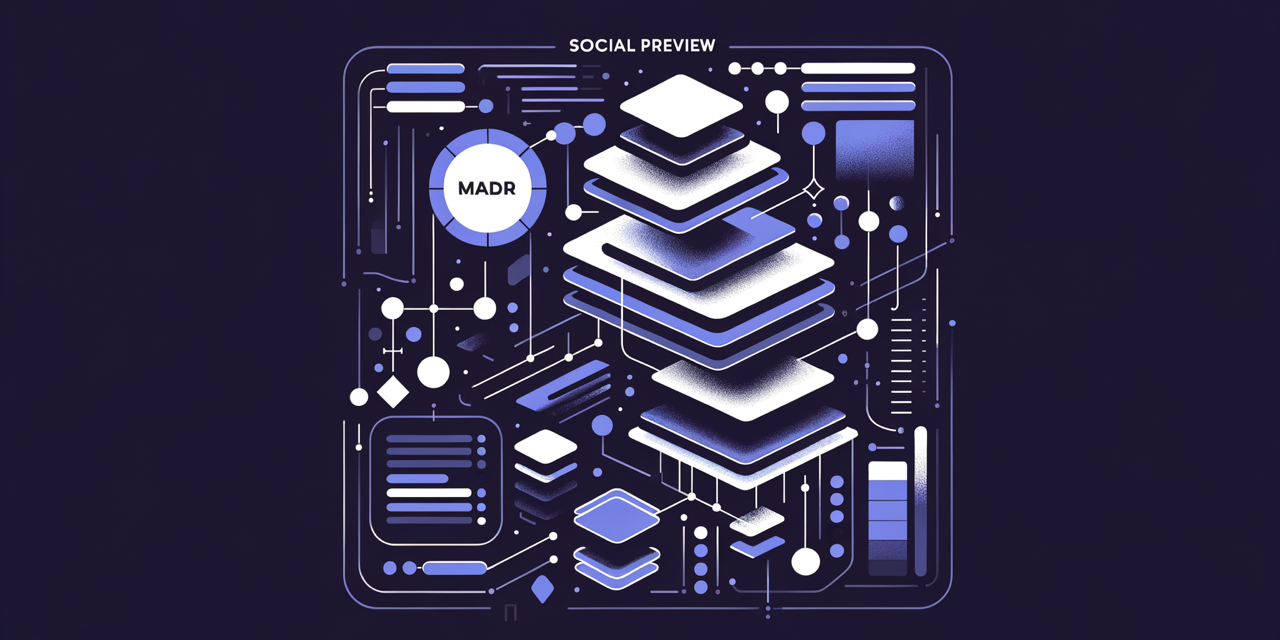
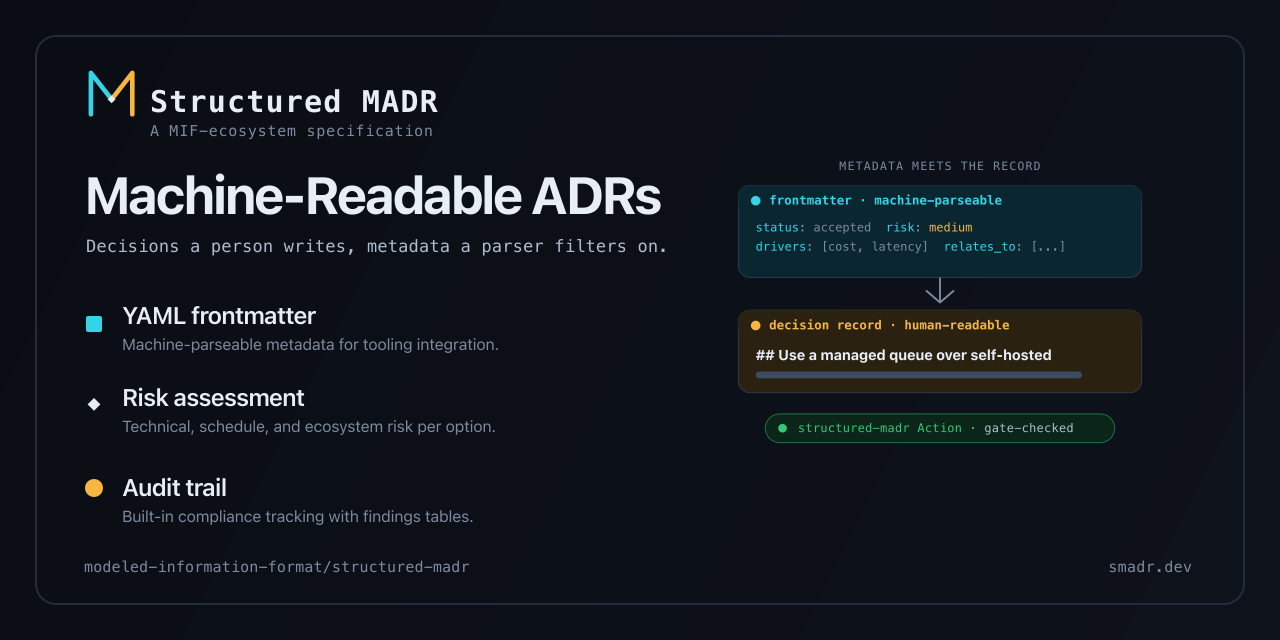
Fix broken deploy, add homepage hero, wire in brand CSS, complete ecosystem sidebar (#94)
* Add an on-brand homepage hero

This was the one project site with a plain heading page, no hero at all. Converts the homepage to Starlight's splash template with a hero depicting the frontmatter-meets-record motif (YAML metadata block, decision record block, validation gate badge), matching the visual language of the org's other sites. Content below the hero is unchanged.

* Replace the DALL-E social preview with a hand-authored on-brand one

The existing .github/social-preview.png was generated by the /github-social plugin (DALL-E-3, 'auto colors', no brand tokens) per .claude/github-social.local.md, and was never even embedded in the README. Replaces it with a hand-authored SVG/PNG pair matching the pattern MIF just established for itself (same identity lockup, pillar layout, and motif composition), and removes the stale generator config so it can't silently regenerate the off-brand version again.

* Embed the social-preview hero in the README

* Complete the MIF ecosystem sidebar with 5 missing siblings

Only carried MIF home, Ecosystem docs, and Specification. Adds Research harness, Ontology corpus, mif-docs plugin, Plugin marketplace, and mif-rs to match the pattern other sibling sites use.

* Move the hero image before the title, matching sibling READMEs

Every other sibling repo (MIF, ontologies, mif-docs-plugin, claude-code-plugins, research-harness-template) places the hero image before the H1; this one had it after.
[…]

diff --git a/src/styles/mif-brand.css b/src/styles/mif-brand.css
@@ -1,0 +1,61 @@
+/* MIF brand — maps the MIF brand tokens onto Starlight theme vars.
+   machine-cyan = primary interactive accent; human-amber = emphasis.
+   Dark is the default; the brand lives there. */
+:root {
+  --mif-machine: #34d3e8;
+  --mif-machine-strong: #1bb6cc;
+  --mif-human: #f5b642;
+  --mif-text: #e8eef6;
+  --sl-font: ui-sans-serif, system-ui, -apple-system, "Segoe UI", Roboto, Helvetica, Arial, sans-serif;
+  --sl-font-mono: ui-monospace, "SF Mono", "JetBrains Mono", "Fira Code", Menlo, Consolas, monospace;
+}
+
+/* Dark theme (default) */
+:root,
+:root[data-theme="dark"] {
+  --sl-color-accent-low: #0a2630;
+  --sl-color-accent: #34d3e8;
+  --sl-color-accent-high: #afedf6;
+  --sl-color-white: #e8eef6;
+  --sl-color-gray-1: #e8eef6;
+  --sl-color-gray-2: #aebccf;
+  --sl-color-gray-3: #7c8aa0;
+  --sl-color-gray-4: #3c4b63;
+  --sl-color-gray-5: #2e3a4d;
+  --sl-color-gray-6: #222c3c;
+  --sl-color-gray-7: #151b27;
+  --sl-color-black: #0a0d13;
+  --sl-color-bg: #0e121b;
+  --sl-color-bg-nav: #0a0d13;
+  --sl-color-bg-sidebar: #0a0d13;
+  --sl-color-bg-inline-code: #1c2433;
+  --sl-color-hairline: #222c3c;
+  --sl-color-text-accent: #34d3e8;
+}
+
+/* Light theme — accents darkened for AA on white */
+:root[data-theme="light"] {
+  --sl-color-accent-low: #e1f5f9;
+  --sl-color-accent: #0b7488;
+  --sl-color-accent-high: #06343d;
+  --sl-color-white: #0a0d13;
+  --sl-color-gray-1: #0e121b;
+  --sl-color-gray-2: #3a465b;
+  --sl-color-gray-3: #5a6678;
+  --sl-color-gray-4: #a9b6cb;
+  --sl-color-gray-5: #cfd8e5;
+  --sl-color-gray-6: #e2e8f1;
+  --sl-color-gray-7: #edf1f7;
+  --sl-color-black: #f8fafd;
+  --sl-color-bg: #f8fafd;
+  --sl-color-bg-nav: #eef2f8;
+  --sl-color-bg-sidebar: #eef2f8;
+  --sl-color-bg-inline-code: #edf1f7;
+  --sl-color-hairline: #e2e8f1;
+  --sl-color-text-accent: #0b7488;
+}
+
+/* Human-amber as the emphasis accent: the quote/promise marker (used sparingly) */
+.sl-markdown-content blockquote {
+  border-inline-start: 3px solid var(--mif-human);
+}

diff --git a/README.md b/README.md
@@ -1,3 +1,8 @@
+<p align="center">
+  <img src=".github/social-preview.png" width="860"
+       alt="Structured MADR — machine-readable Architectural Decision Records. The decision a person writes and the metadata a parser filters on: one record, both readers, gate-checked before it merges.">
+</p>
+
 # Structured MADR
 
 **Machine-Readable Architectural Decision Records for the AI Era**